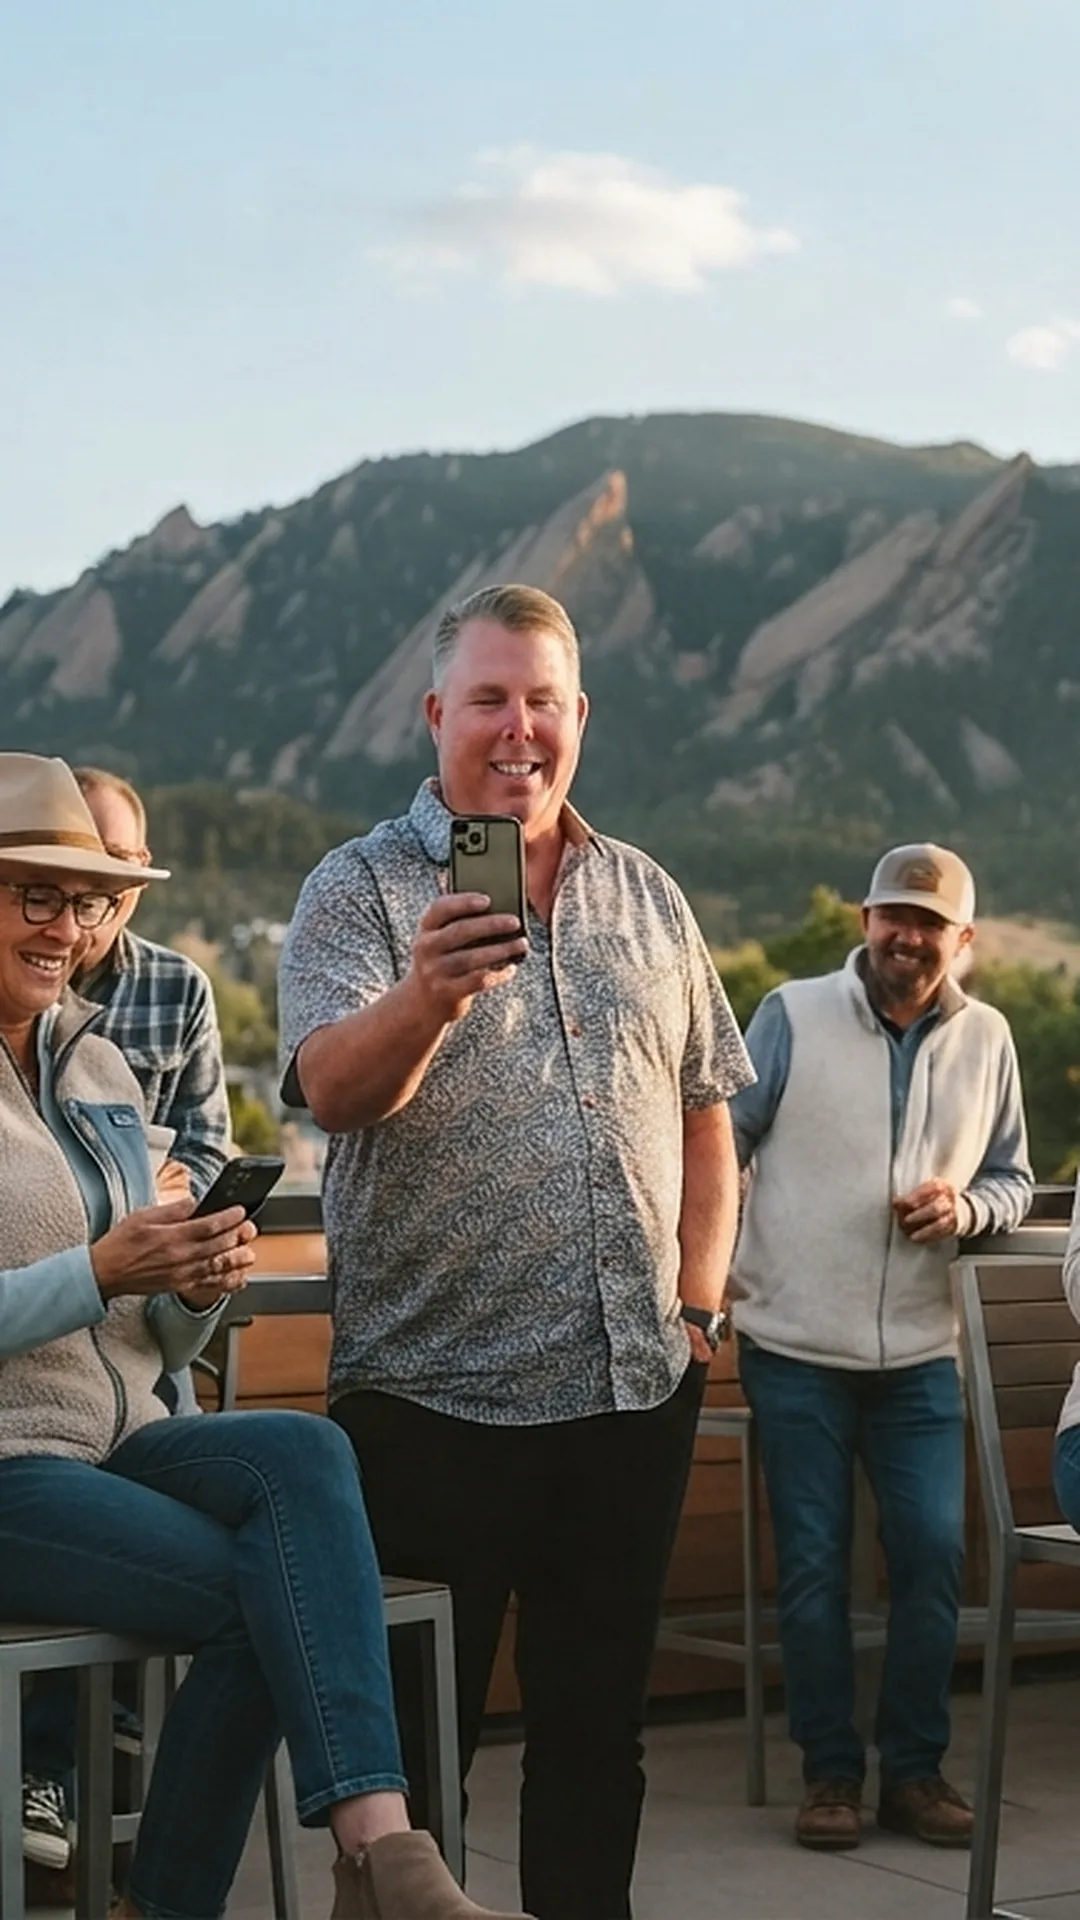
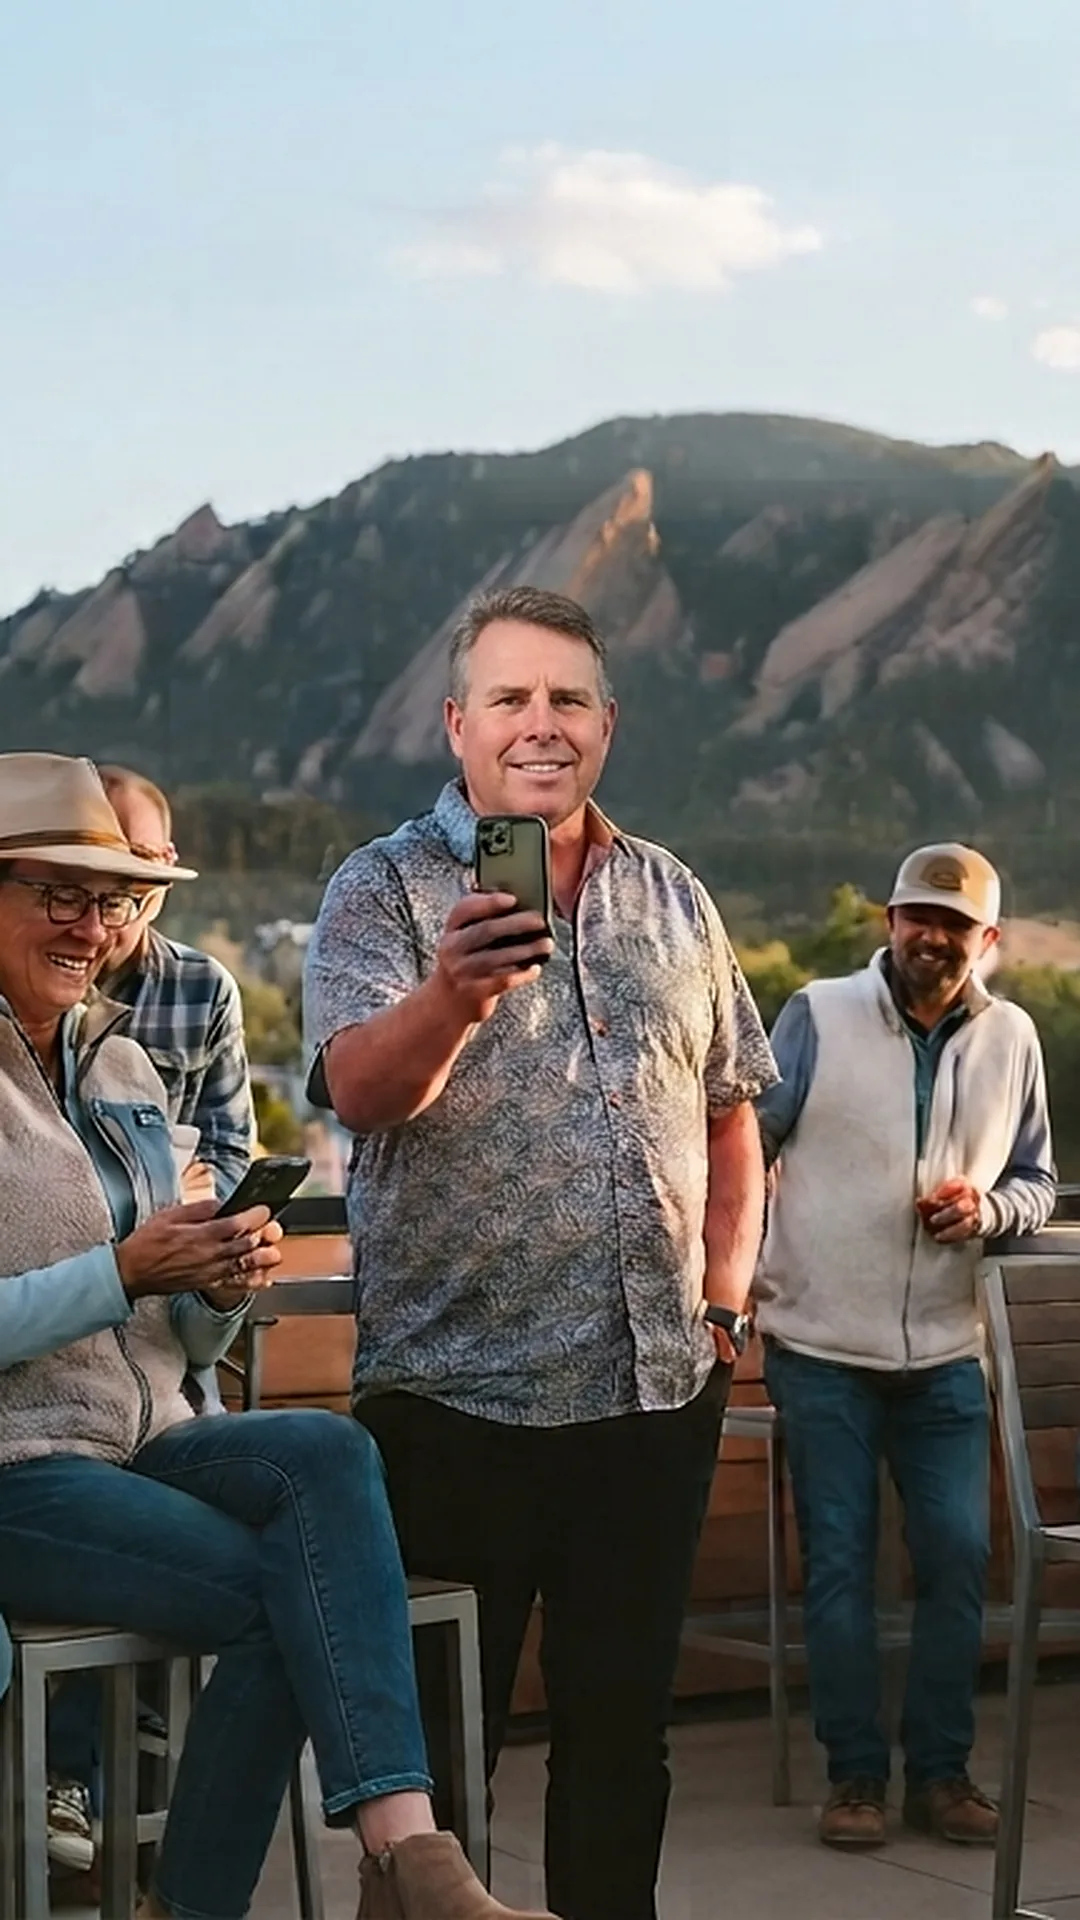
New hero photo with corrected face; Ask others wall; smaller phone buttons

diff --git a/enjoy/about/style.css b/enjoy/about/style.css
@@ -329,3 +329,8 @@ a.fab { display: inline-block; text-decoration: none; }
 .voice__name { font: 800 1.75rem/1.1 var(--font-heading); letter-spacing: -0.01em; margin-bottom: var(--sp-xs); }
 .voice__quote { font-size: 1.5rem; line-height: 1.35; font-weight: 500; margin-bottom: var(--sp-md); text-wrap: balance; }
 .voice__nav { display: flex; gap: var(--sp-sm); justify-content: center; }
+@media (max-width: 700px) {
+  .fab { padding: 11px 16px; font-size: .95rem; }
+  .fab--ask { bottom: 68px; }
+  .fab--others { bottom: 20px; }
+}

diff --git a/enjoy/agora/style.css b/enjoy/agora/style.css
@@ -329,3 +329,8 @@ a.fab { display: inline-block; text-decoration: none; }
 .voice__name { font: 800 1.75rem/1.1 var(--font-heading); letter-spacing: -0.01em; margin-bottom: var(--sp-xs); }
 .voice__quote { font-size: 1.5rem; line-height: 1.35; font-weight: 500; margin-bottom: var(--sp-md); text-wrap: balance; }
 .voice__nav { display: flex; gap: var(--sp-sm); justify-content: center; }
+@media (max-width: 700px) {
+  .fab { padding: 11px 16px; font-size: .95rem; }
+  .fab--ask { bottom: 68px; }
+  .fab--others { bottom: 20px; }
+}

diff --git a/enjoy/built/style.css b/enjoy/built/style.css
@@ -329,3 +329,8 @@ a.fab { display: inline-block; text-decoration: none; }
 .voice__name { font: 800 1.75rem/1.1 var(--font-heading); letter-spacing: -0.01em; margin-bottom: var(--sp-xs); }
 .voice__quote { font-size: 1.5rem; line-height: 1.35; font-weight: 500; margin-bottom: var(--sp-md); text-wrap: balance; }
 .voice__nav { display: flex; gap: var(--sp-sm); justify-content: center; }
+@media (max-width: 700px) {
+  .fab { padding: 11px 16px; font-size: .95rem; }
+  .fab--ask { bottom: 68px; }
+  .fab--others { bottom: 20px; }
+}

diff --git a/enjoy/clinic/style.css b/enjoy/clinic/style.css
@@ -329,3 +329,8 @@ a.fab { display: inline-block; text-decoration: none; }
 .voice__name { font: 800 1.75rem/1.1 var(--font-heading); letter-spacing: -0.01em; margin-bottom: var(--sp-xs); }
 .voice__quote { font-size: 1.5rem; line-height: 1.35; font-weight: 500; margin-bottom: var(--sp-md); text-wrap: balance; }
 .voice__nav { display: flex; gap: var(--sp-sm); justify-content: center; }
+@media (max-width: 700px) {
+  .fab { padding: 11px 16px; font-size: .95rem; }
+  .fab--ask { bottom: 68px; }
+  .fab--others { bottom: 20px; }
+}

diff --git a/enjoy/curriculum/style.css b/enjoy/curriculum/style.css
@@ -329,3 +329,8 @@ a.fab { display: inline-block; text-decoration: none; }
 .voice__name { font: 800 1.75rem/1.1 var(--font-heading); letter-spacing: -0.01em; margin-bottom: var(--sp-xs); }
 .voice__quote { font-size: 1.5rem; line-height: 1.35; font-weight: 500; margin-bottom: var(--sp-md); text-wrap: balance; }
 .voice__nav { display: flex; gap: var(--sp-sm); justify-content: center; }
+@media (max-width: 700px) {
+  .fab { padding: 11px 16px; font-size: .95rem; }
+  .fab--ask { bottom: 68px; }
+  .fab--others { bottom: 20px; }
+}

diff --git a/enjoy/faq/style.css b/enjoy/faq/style.css
@@ -329,3 +329,8 @@ a.fab { display: inline-block; text-decoration: none; }
 .voice__name { font: 800 1.75rem/1.1 var(--font-heading); letter-spacing: -0.01em; margin-bottom: var(--sp-xs); }
 .voice__quote { font-size: 1.5rem; line-height: 1.35; font-weight: 500; margin-bottom: var(--sp-md); text-wrap: balance; }
 .voice__nav { display: flex; gap: var(--sp-sm); justify-content: center; }
+@media (max-width: 700px) {
+  .fab { padding: 11px 16px; font-size: .95rem; }
+  .fab--ask { bottom: 68px; }
+  .fab--others { bottom: 20px; }
+}

diff --git a/enjoy/style.css b/enjoy/style.css
@@ -329,3 +329,8 @@ a.fab { display: inline-block; text-decoration: none; }
 .voice__name { font: 800 1.75rem/1.1 var(--font-heading); letter-spacing: -0.01em; margin-bottom: var(--sp-xs); }
 .voice__quote { font-size: 1.5rem; line-height: 1.35; font-weight: 500; margin-bottom: var(--sp-md); text-wrap: balance; }
 .voice__nav { display: flex; gap: var(--sp-sm); justify-content: center; }
+@media (max-width: 700px) {
+  .fab { padding: 11px 16px; font-size: .95rem; }
+  .fab--ask { bottom: 68px; }
+  .fab--others { bottom: 20px; }
+}

diff --git a/enjoy/testimonials/style.css b/enjoy/testimonials/style.css
@@ -329,3 +329,8 @@ a.fab { display: inline-block; text-decoration: none; }
 .voice__name { font: 800 1.75rem/1.1 var(--font-heading); letter-spacing: -0.01em; margin-bottom: var(--sp-xs); }
 .voice__quote { font-size: 1.5rem; line-height: 1.35; font-weight: 500; margin-bottom: var(--sp-md); text-wrap: balance; }
 .voice__nav { display: flex; gap: var(--sp-sm); justify-content: center; }
+@media (max-width: 700px) {
+  .fab { padding: 11px 16px; font-size: .95rem; }
+  .fab--ask { bottom: 68px; }
+  .fab--others { bottom: 20px; }
+}

diff --git a/enjoy/ways/style.css b/enjoy/ways/style.css
@@ -329,3 +329,8 @@ a.fab { display: inline-block; text-decoration: none; }
 .voice__name { font: 800 1.75rem/1.1 var(--font-heading); letter-spacing: -0.01em; margin-bottom: var(--sp-xs); }
 .voice__quote { font-size: 1.5rem; line-height: 1.35; font-weight: 500; margin-bottom: var(--sp-md); text-wrap: balance; }
 .voice__nav { display: flex; gap: var(--sp-sm); justify-content: center; }
+@media (max-width: 700px) {
+  .fab { padding: 11px 16px; font-size: .95rem; }
+  .fab--ask { bottom: 68px; }
+  .fab--others { bottom: 20px; }
+}
